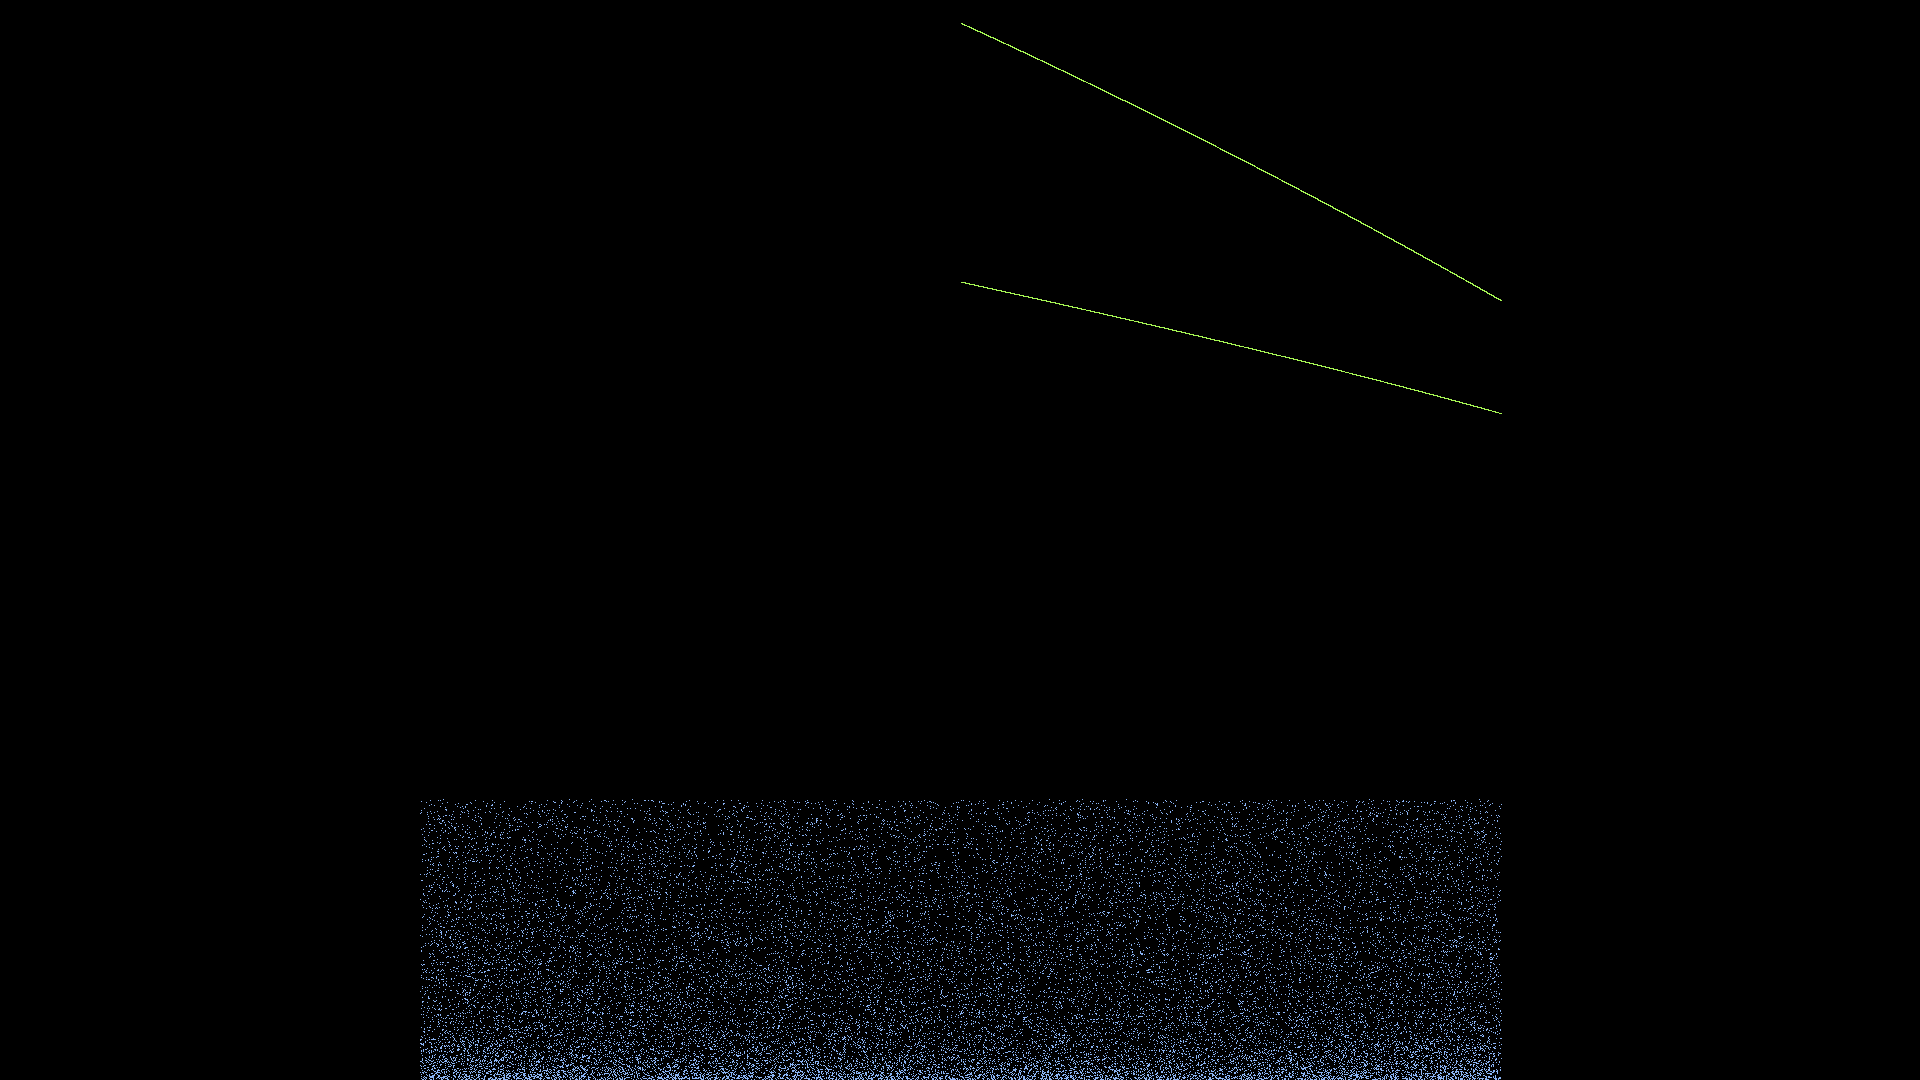
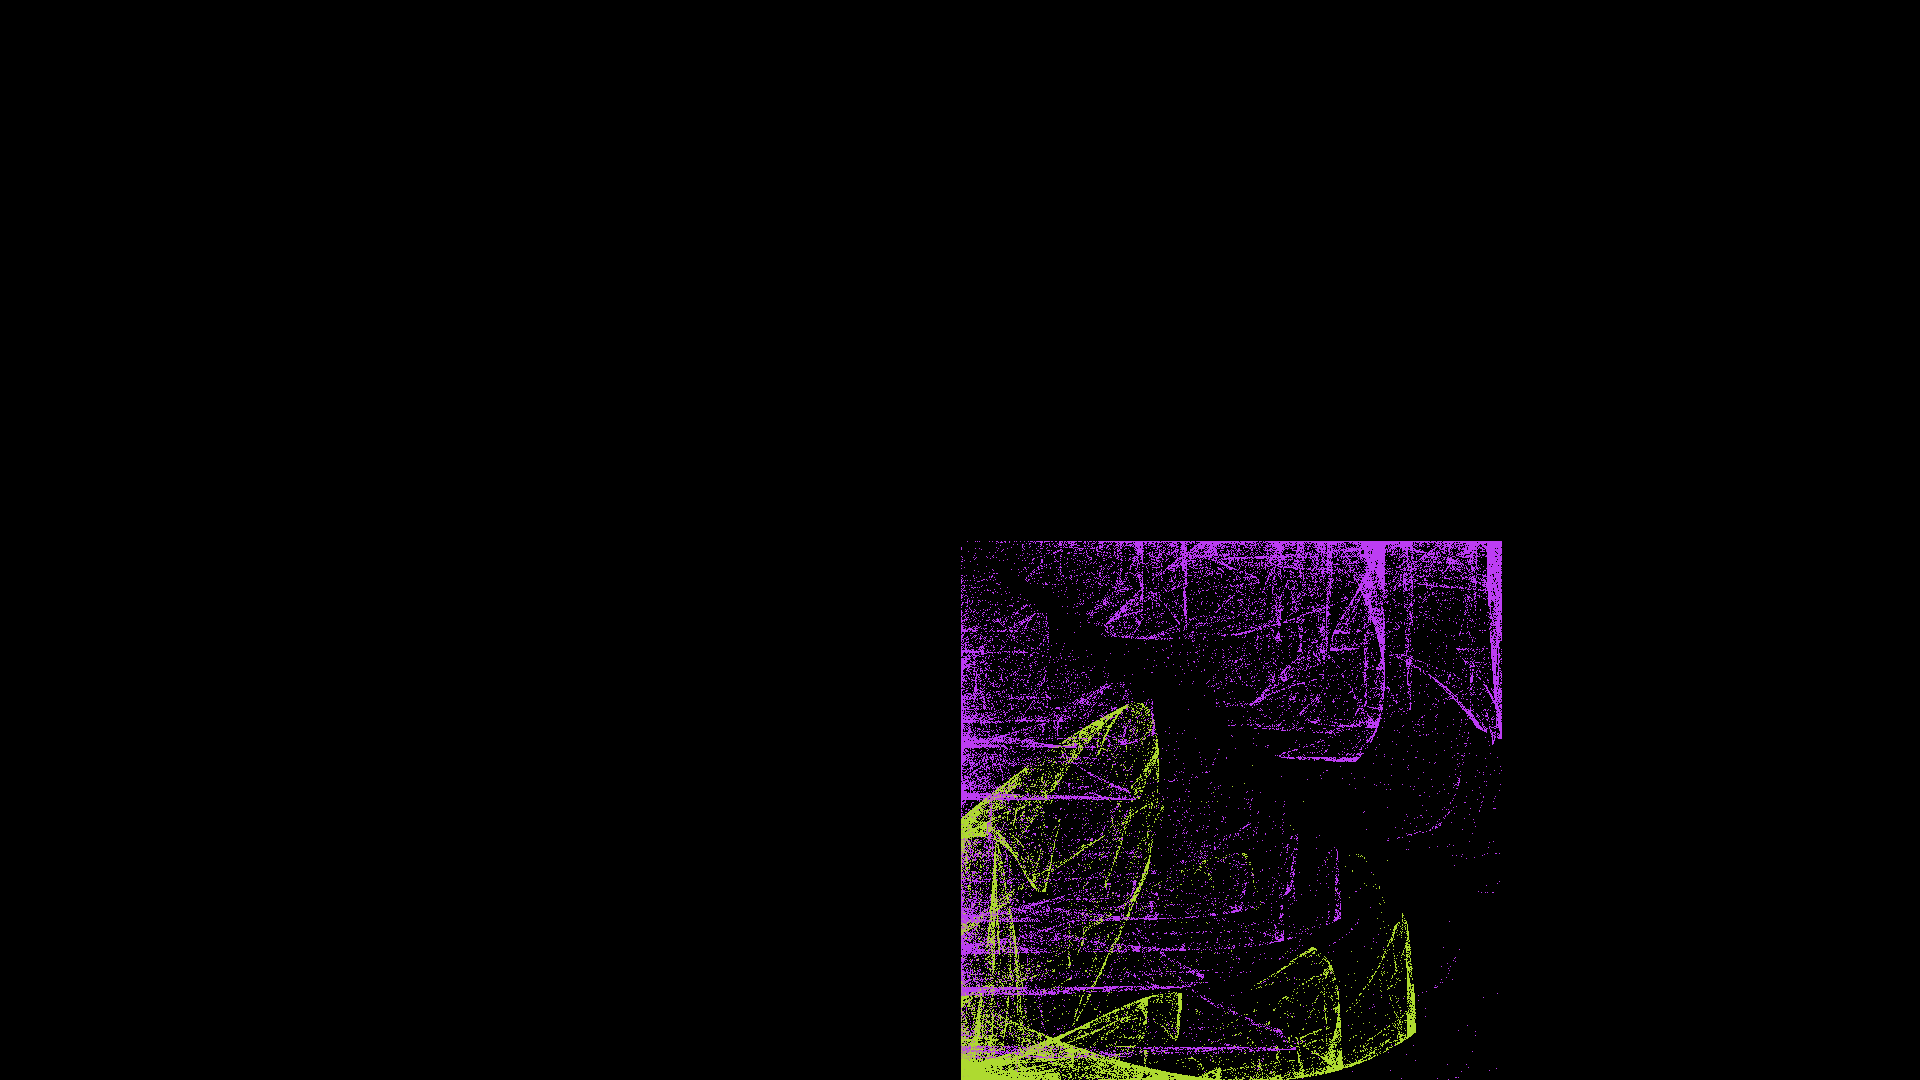
project4

Changed region(s): [[0.2188, 0.55, 0.7812, 1.0], [0.5312, 0.4889, 0.7812, 0.7028], [0.25, 0.8861, 0.2812, 0.9167]]

diff --git a/src/main/java/edu/project4/FractalRenderer.java b/src/main/java/edu/project4/FractalRenderer.java
@@ -1,36 +1,47 @@
 package edu.project4;
-import javax.imageio.ImageIO;
+
+import edu.project4.Fractal.FractalImage;
+import edu.project4.Fractal.Transformation;
 import java.awt.image.BufferedImage;
 import java.io.File;
 import java.io.IOException;
 import java.util.ArrayList;
 import java.util.List;
-import edu.project4.Fractal.*;
+import javax.imageio.ImageIO;
+
 
 public class FractalRenderer {
+
+    private FractalRenderer() {
+    }
+
+    @SuppressWarnings({"UncommentedMain", "MagicNumber"})
     public static void main(String[] args) {
         int width = 1920;
         int height = 1080;
         Fractal.FractalImage fractalImage = Fractal.FractalImage.create(width, height);
 
-        Rect world = new Rect(0, 0, 2.5, 2.5);
         List<Transformation> affineTransformation = new ArrayList<>();
         List<Transformation> nonLinearTransformation = new ArrayList<>();
-        affineTransformation.add(new LinearTransformation(0.5, 0, 0, 0.5, 0, 1));  // Линейное преобразование
-        affineTransformation.add(new LinearTransformation(0, 1, 0, 0.5, 1, 0));  // Линейное преобразование
-        nonLinearTransformation.add(new SineTransformation(2, 1));  // Синусоидальное преобразование
+        affineTransformation.add(new LinearTransformation(0.5, 0, 0, 0.5, 0.8, 1));  // Линейное преобразование
+        affineTransformation.add(new LinearTransformation(0, 0.9, 0, 0.5, 0, 0));  // Линейное преобразование
+        nonLinearTransformation.add(new SineTransformation(1, 1));  // Синусоидальное преобразование
         nonLinearTransformation.add(new SphericalTransformation(2));  // Сферическое преобразование
+        //nonLinearTransformation.add(new NonAffineTransformation());
 
-        int samples = 50000;
-        short iterPerSample = 50;
+        int samples = 10;
+        int iterPerSample = 30000;
         long seed = System.currentTimeMillis();
 
-        FractalImage renderedImage = Renderer.render(fractalImage, world,affineTransformation, nonLinearTransformation, samples, iterPerSample, seed);
+        FractalImage renderedImage = Renderer.render(fractalImage, affineTransformation, nonLinearTransformation,
+            samples, iterPerSample, seed);
 
         BufferedImage bufferedImage = createBufferedImage(renderedImage);
-        saveImage(bufferedImage, "/Users/daniltarasov/backend-java/backend-java/src/main/java/edu/project4/pictures/fractal_image.png");
+        saveImage(bufferedImage,
+            "/Users/daniltarasov/backend-java/backend-java/src/main/java/edu/project4/pictures/fractal_image.png");
     }
 
+    @SuppressWarnings("MagicNumber")
     private static BufferedImage createBufferedImage(FractalImage image) {
         BufferedImage bufferedImage = new BufferedImage(image.width, image.height, BufferedImage.TYPE_INT_RGB);
 

diff --git a/src/main/java/edu/project4/Renderer.java b/src/main/java/edu/project4/Renderer.java
@@ -2,9 +2,10 @@ package edu.project4;
 
 import java.util.List;
 import java.util.Random;
+import java.util.concurrent.ThreadLocalRandom;
 
 public class Renderer {
-    private static final Random random = new Random();
+    private static final Random random = ThreadLocalRandom.current();
     public static final double X_MIN = -1.777;
     public static final double X_MAX = 1.777;
     public static final double Y_MIN = -1.0;
@@ -12,14 +13,13 @@ public class Renderer {
 
     public static Fractal.FractalImage render(
         Fractal.FractalImage canvas,
-        Rect world,
         List<Fractal.Transformation> affineTransformations,
         List<Fractal.Transformation> nonLinearTransformations,
         int samples,
-        short iterPerSample,
+        int iterPerSample,
         long seed
     ) {
-        random.setSeed(seed);
+        //random.setSeed(seed);
         double symmetry = 2.0;
 
         for (int num = 0; num < samples; ++num) {
@@ -29,11 +29,11 @@ public class Renderer {
                 Fractal.Transformation affineTransformation = randomVariation(affineTransformations);
                 Fractal.Transformation nonLinearTransformation = randomVariation(nonLinearTransformations);
 
-                Point pwNew = affineTransformation.apply(pw);
-                pwNew = nonLinearTransformation.apply(pwNew);
-                if (step >= 0 && pwNew.isCorrect(Y_MAX, X_MAX)) {
-                    int y = canvas.height - (int) (((Y_MAX - pwNew.y) / (Y_MAX - Y_MIN)) * canvas.height);
-                    int x = canvas.width - (int) (((X_MAX - pwNew.x) / (X_MAX - X_MIN)) * canvas.width);
+                pw = affineTransformation.apply(pw);
+                pw = nonLinearTransformation.apply(pw);
+                if (step >= 0 && pw.isCorrect(Y_MAX, X_MAX)) {
+                    int y = canvas.height - (int) (((Y_MAX - pw.y) / (Y_MAX - Y_MIN)) * canvas.height);
+                    int x = canvas.width - (int) (((X_MAX - pw.x) / (X_MAX - X_MIN)) * canvas.width);
 
                     if (x < canvas.width && y < canvas.height) {
                         canvas.pixel(x, y).blendColor(affineTransformation.getRed(),

diff --git a/src/main/java/edu/project4/LinearTransformation.java b/src/main/java/edu/project4/LinearTransformation.java
@@ -3,14 +3,24 @@ package edu.project4;
 import java.util.Random;
 
 class LinearTransformation implements Fractal.Transformation {
-    private final double a, b, c, d, e, f;
+    private final double a;
+    private final double b;
+    private final double c;
+    private final double d;
+    private final double e;
+    private final double f;
+
 
     private final Random random = new Random();
-    private final int Red = random.nextInt(256);
-    private final int Green = random.nextInt(256);
-    private final int Blue = random.nextInt(256);
+    private final int red = random.nextInt(256);
+    private final int green = random.nextInt(256);
+    private final int blue = random.nextInt(256);
+    //private final int Red = 0;
+    //private final int Green = 144;
+    //private final int Blue = 15;
 
-    public LinearTransformation(double a, double b, double c, double d, double e, double f) {
+
+    LinearTransformation(double a, double b, double c, double d, double e, double f) {
         this.a = a;
         this.b = b;
         this.c = c;
@@ -21,21 +31,24 @@ class LinearTransformation implements Fractal.Transformation {
 
     @Override
     public Point apply(Point p) {
-        double x = a * p.x + b * p.y + e;
-        double y = c * p.x + d * p.y + f;
-        return new Point(x, y, Red, Green, Blue);
+        double x = a * p.x + b * p.y + c;
+        double y = d * p.x + e * p.y + f;
+        return new Point(x, y, red, green, blue);
     }
+
     @Override
     public int getRed() {
-        return Red;
+        return red;
     }
+
     @Override
     public int getGreen() {
-        return Green;
+        return green;
     }
+
     @Override
     public int getBlue() {
-        return Blue;
+        return blue;
     }
 
 }

diff --git a/src/main/java/edu/project4/Fractal.java b/src/main/java/edu/project4/Fractal.java
@@ -11,21 +11,22 @@ public class Fractal {
 
 
     public static class FractalImage {
-        private final Pixel[] data;
+        private final Pixel[][] data;
         final int width;
         final int height;
 
-        public FractalImage(Pixel[] data, int width, int height) {
+        public FractalImage(Pixel[][] data, int width, int height) {
             this.data = data;
             this.width = width;
             this.height = height;
         }
 
         public static FractalImage create(int width, int height) {
-            Pixel[] data = new Pixel[width * height];
-
-            for (int i = 0; i < data.length; i++) {
-                data[i] = new Pixel(0, 0, 0, 0);  // черные пиксели
+            Pixel[][] data = new Pixel[width][height];
+            for (int i = 0; i < width; ++i) {
+                for (int j = 0; j < height; ++j) {
+                    data[i][j] = new Pixel(0, 0, 0, 0); // черные пиксели
+                }
             }
 
             return new FractalImage(data, width, height);
@@ -36,21 +37,10 @@ public class Fractal {
         }
 
         public Pixel pixel(int x, int y) {
-            return data[y * width + x];
+            return data[x][y];
         }
 
         // Добавьте методы для работы с изображением, например, для гамма-коррекции
     }
-
-
-
-    //public class ImageUtils {
-    //    public static void save(FractalImage image, String filename, ImageFormat format) {
-    //        // Реализуйте сохранение изображения в указанный формат
-    //    }
-    //}
-
-
-
 
 }

diff --git a/src/main/java/edu/project4/SphericalTransformation.java b/src/main/java/edu/project4/SphericalTransformation.java
@@ -6,9 +6,9 @@ public class SphericalTransformation implements Fractal.Transformation {
     private final double scale;
 
     private final Random random = new Random();
-    private final int Red = random.nextInt(256);
-    private final int Green = random.nextInt(256);
-    private final int Blue = random.nextInt(256);
+    private final int red = random.nextInt(256);
+    private final int green = random.nextInt(256);
+    private final int blue = random.nextInt(256);
 
     public SphericalTransformation(double scale) {
         this.scale = scale;
@@ -22,18 +22,21 @@ public class SphericalTransformation implements Fractal.Transformation {
         double x = newR * Math.cos(theta);
         double y = newR * Math.sin(theta);
 
-        return new Point(x, y, Red, Green, Blue);
+        return new Point(x, y, red, green, blue);
     }
+
     @Override
     public int getRed() {
-        return Red;
+        return red;
     }
+
     @Override
     public int getGreen() {
-        return Green;
+        return green;
     }
+
     @Override
     public int getBlue() {
-        return Blue;
+        return blue;
     }
 }

diff --git a/src/main/java/edu/project4/NonAffineTransformation.java b/src/main/java/edu/project4/NonAffineTransformation.java
@@ -2,25 +2,23 @@ package edu.project4;
 
 import java.util.Random;
 
-public class SineTransformation implements Fractal.Transformation {
-    private final double a, b;
+class NonAffineTransformation implements Fractal.Transformation {
 
     private final Random random = new Random();
     private final int Red = random.nextInt(256);
     private final int Green = random.nextInt(256);
     private final int Blue = random.nextInt(256);
+    //private final int Red = 0;
+    //private final int Green = 144;
+    //private final int Blue = 15;
 
-    public SineTransformation(double a, double b) {
-        this.a = a;
-        this.b = b;
+
+    public NonAffineTransformation() {
     }
 
     @Override
     public Point apply(Point p) {
-        double x = a * Math.sin(p.x);
-        double y = b * Math.sin(p.y);
-
-        return new Point(x, y, Red, Green, Blue);
+        return p;
     }
 
     @Override
@@ -37,4 +35,7 @@ public class SineTransformation implements Fractal.Transformation {
     public int getBlue() {
         return Blue;
     }
+
 }
+
+

diff --git a/src/main/java/edu/project4/Point.java b/src/main/java/edu/project4/Point.java
@@ -1,17 +1,20 @@
 package edu.project4;
 
 public class Point {
-    final int red, green, blue;
+    final int red;
+    final int green;
+    final int blue;
     final double x;
     final double y;
 
-    public Point (double x, double y, int red, int green, int blue) {
+    public Point(double x, double y, int red, int green, int blue) {
         this.x = x;
         this.y = y;
         this.red = red;
         this.green = green;
         this.blue = blue;
     }
+
     public double[] getPoint() {
         return new double[]{x, y};
     }
@@ -19,6 +22,7 @@ public class Point {
     public int[] getColor() {
         return new int[]{red, green, blue};
     }
+
     public boolean isCorrect(double width, double height) {
         return x >= -width && x < width && y >= -height && y < height;
     }
